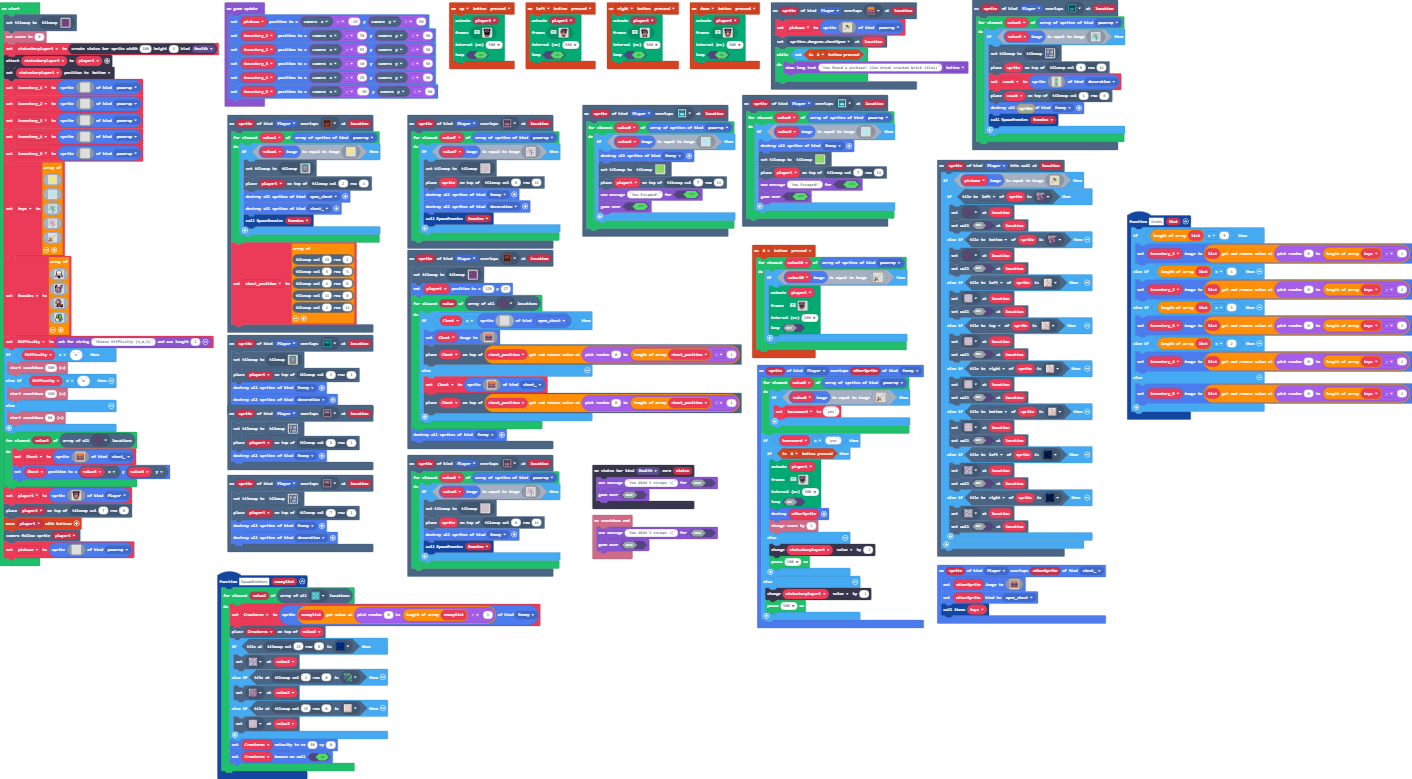
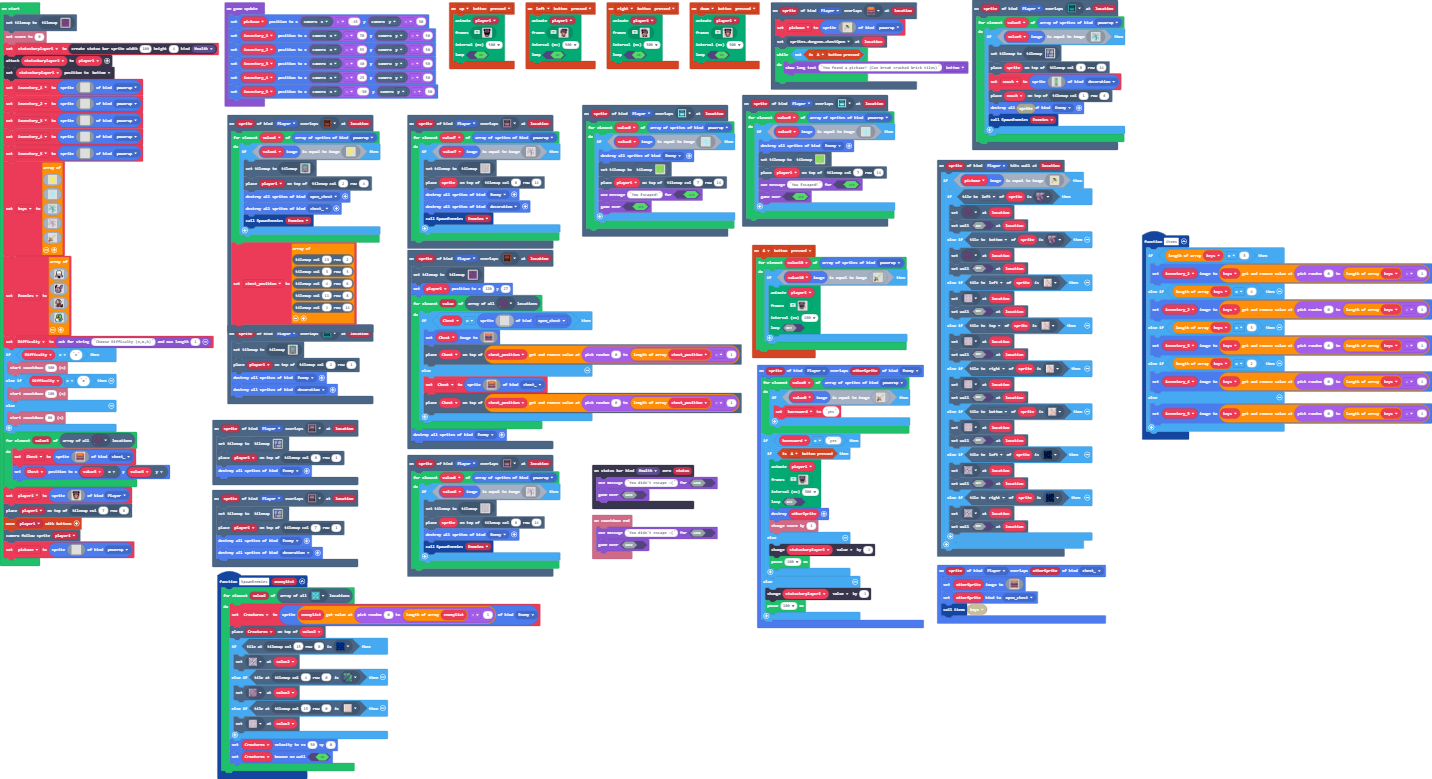
Update main.blocks, main.ts, tilemap.g.jres, tilemap.g.ts

diff --git a/tilemap.g.ts b/tilemap.g.ts
@@ -156,25 +156,6 @@ namespace myTiles {
 . . . . . . . . . . . . . . . . 
 . . . . . . . . . . . . . . . . 
 `, [myTiles.transparency16], TileScale.Sixteen);
-            case "level1":
[1 lines of base64/hex data omitted]
-2 2 2 2 2 2 2 . 2 2 2 2 2 2 2 2 
-2 . . . . . . . . . . 2 . . . 2 
-2 . . 2 2 . . . . . . . . . . 2 
-2 . . . 2 . . . . . . 2 . . . 2 
-2 2 2 2 2 2 2 . . 2 2 2 2 2 2 2 
-2 . . . . . . . . . . . . . . 2 
-2 . . . . . . . . . . . . . . 2 
-2 2 2 2 2 2 2 2 2 2 2 2 2 . . 2 
-2 . . . . 2 . . . 2 . . . . . 2 
-2 . . . . . . 2 . . . . . . . 2 
-2 2 . . 2 2 2 2 2 2 2 2 2 2 2 2 
-2 . . . . . . . . . . . . . . 2 
-2 . . . . . . . . . . . . . . 2 
-2 2 2 . . . . . . 2 2 2 . . . 2 
-2 . 2 . . . . . 2 2 2 2 2 . . 2 
-2 2 2 2 2 2 2 2 2 2 2 2 2 2 2 2 
-`, [myTiles.transparency16,sprites.dungeon.purpleOuterNorthEast,sprites.dungeon.purpleOuterNorthWest,sprites.dungeon.purpleOuterSouthEast,sprites.dungeon.purpleOuterSouthWest,sprites.dungeon.purpleOuterSouth1,sprites.dungeon.purpleOuterEast0,sprites.dungeon.purpleOuterWest1,sprites.dungeon.purpleOuterNorth1,sprites.dungeon.darkGroundNorthWest0,sprites.dungeon.darkGroundNorthEast0,sprites.dungeon.darkGroundSouthEast0,sprites.dungeon.darkGroundSouth,sprites.dungeon.darkGroundNorth,sprites.dungeon.darkGroundEast,sprites.dungeon.darkGroundWest,sprites.dungeon.darkGroundCenter,sprites.dungeon.purpleOuterNorth2,sprites.dungeon.purpleOuterWest2,sprites.dungeon.purpleOuterSouth2,sprites.dungeon.purpleOuterEast2,myTiles.tile1,sprites.dungeon.purpleInnerNorthEast,sprites.dungeon.purpleInnerNorthWest,sprites.dungeon.purpleOuterWest0,sprites.dungeon.floorDark3,sprites.dungeon.darkGroundNorthEast1,sprites.dungeon.chestClosed], TileScale.Sixteen);
             case "level11":
             case "level11":return tiles.createTilemap(hex`1000100000000000000000000000000000000000000000000000000000000000000000000000000000000000000000000000000000000000000000000000000000000000000000000000000000000000000000000000000000000000000000000000000000000000000000000000000000000000000000000000000000000000000000000000000000000000000000000000000000000000000000000000000000000000000000000000000000000000000000000000000000000000000000000000000000000000000000000000000000000000000000000000000000000000000000000000000000000000000000000000000000000000000000000000000000000000`, img`
 . . . . . . . . . . . . . . . . 
@@ -859,25 +840,6 @@ namespace myTiles {
 . . . . . . . . . . . . . . . . 
 . . . . . . . . . . . . . . . . 
 `, [myTiles.transparency16], TileScale.Sixteen);
-            case "level24":
-            case "level24":return tiles.createTilemap(hex`1000100004040404040404070604040404040404040108080104010101010501010108040401010101040404040404010101010404010101010101010101050101010104040101010104010101010401010101040404050404040101010104010101010404010108010404040404040404040404040801010104010101010108010101040404040405040101010101010101010404010101010101010101040108010104040101010101010101010404040504040401010404040101010104010801010404010101080404040404040101010804040101010104010101010501010101040401010101040101010104010101010404040404040404020304040404040404`, img`
-2 2 2 2 2 2 2 . . 2 2 2 2 2 2 2 
-2 . . . . 2 . . . . 2 . . . . 2 
-2 . . . . 2 2 2 2 2 2 . . . . 2 
-2 . . . . . . . . . 2 . . . . 2 
-2 . . . . 2 . . . . 2 . . . . 2 
-2 2 2 2 2 2 . . . . 2 . . . . 2 
-2 . . . . 2 2 2 2 2 2 2 2 2 2 2 
-2 . . . . 2 . . . . . . . . . 2 
-2 2 2 2 2 2 . . . . . . . . . 2 
-2 . . . . . . . . . 2 . . . . 2 
-2 . . . . . . . . . 2 2 2 2 2 2 
-2 . . 2 2 2 . . . . 2 . . . . 2 
-2 . . . . 2 2 2 2 2 2 . . . . 2 
-2 . . . . 2 . . . . 2 . . . . 2 
-2 . . . . 2 . . . . 2 . . . . 2 
-2 2 2 2 2 2 2 . . 2 2 2 2 2 2 2 
-`, [myTiles.transparency16,myTiles.tile3,myTiles.tile16,myTiles.tile17,sprites.dungeon.floorLight2,sprites.dungeon.floorLight5,myTiles.tile19,myTiles.tile20,sprites.dungeon.collectibleInsignia], TileScale.Sixteen);
             case "level76":
             case "level76":return tiles.createTilemap(hex`1000100000000000000000000000000000000000000000000000000000000000000000000000000000000000000000000000000000000000000000000000000000000000000000000000000000000000000000000000000000000000000000000000000000000000000000000000000000000000000000000000000000000000000000000000000000000000000000000000000000000000000000000000000000000000000000000000000000000000000000000000000000000000000000000000000000000000000000000000000000000000000000000000000000000000000000000000000000000000000000000000000000000000000000000000000000000000`, img`
 . . . . . . . . . . . . . . . . 
@@ -2189,25 +2151,6 @@ namespace myTiles {
 . . . . . . . . . . . . . . . . 
 . . . . . . . . . . . . . . . . 
 `, [myTiles.transparency16], TileScale.Sixteen);
-            case "level95":
[1 lines of base64/hex data omitted]
-. . . . . . . . . . . . . . . . 
-. . . . . . . . . . . . . . . . 
-. . . . . . . . . . . . . . . . 
-. . . . . . . . . . . . . . . . 
-. . . . . . . . . . . . . . . . 
-. . . . . . . . . . . . . . . . 
-. . . . . . . . . . . . . . . . 
-. . . . . . . . . . . . . . . . 
-. . . . . . . . . . . . . . . . 
-. . . . . . . . . . . . . . . . 
-. . . . . . . . . . . . . . . . 
-. . . . . . . . . . . . . . . . 
-. . . . . . . . . . . . . . . . 
-. . . . . . . . . . . . . . . . 
-. . . . . . . . . . . . . . . . 
-. . . . . . . . . . . . . . . . 
-`, [myTiles.transparency16,sprites.castle.tileGrass2,myTiles.tile19,myTiles.tile20,sprites.castle.tileGrass1,sprites.castle.tileGrass3,sprites.castle.tilePath7,sprites.castle.tilePath4,sprites.castle.tilePath1,sprites.castle.tilePath3,sprites.castle.tilePath9,sprites.castle.tilePath6,sprites.builtin.brick,sprites.dungeon.stairSouth,myTiles.tile22,myTiles.tile23], TileScale.Sixteen);
             case "level2":
             case "level2":return tiles.createTilemap(hex`1000100000000000000000000000000000000000000000000000000000000000000000000000000000000000000000000000000000000000000000000000000000000000000000000000000000000000000000000000000000000000000000000000000000000000000000000000000000000000000000000000000000000000000000000000000000000000000000000000000000000000000000000000000000000000000000000000000000000000000000000000000000000000000000000000000000000000000000000000000000000000000000000000000000000000000000000000000000000000000000000000000000000000000000000000000000000000`, img`
 . . . . . . . . . . . . . . . . 
@@ -2227,6 +2170,44 @@ namespace myTiles {
 . . . . . . . . . . . . . . . . 
 . . . . . . . . . . . . . . . . 
 `, [myTiles.transparency16], TileScale.Sixteen);
+            case "level1":
[1 lines of base64/hex data omitted]
+2 2 2 2 2 2 2 . 2 2 2 2 2 2 2 2 
+2 . . . . . . . . . . 2 . . . 2 
+2 . . 2 2 . . . . . . . . . . 2 
+2 . . . 2 . . . . . . 2 . . . 2 
+2 2 2 2 2 2 2 . . 2 2 2 2 2 2 2 
+2 . . . . . . . . . . . . . . 2 
+2 . . . . . . . . . . . . . . 2 
+2 2 2 2 2 2 2 2 2 2 2 2 2 . . 2 
+2 . . . . 2 . . . 2 . . . . . 2 
+2 . . . . . . 2 . . . . . . . 2 
+2 2 . . 2 2 2 2 2 2 2 2 2 2 2 2 
+2 . . . . . . . . . . . . . . 2 
+2 . . . . . . . . . . . . . . 2 
+2 2 2 . . . . . . 2 2 2 . . . 2 
+2 . 2 . . . . . 2 2 2 2 2 . . 2 
+2 2 2 2 2 2 2 2 2 2 2 2 2 2 2 2 
+`, [myTiles.transparency16,sprites.dungeon.purpleOuterNorthEast,sprites.dungeon.purpleOuterNorthWest,sprites.dungeon.purpleOuterSouthEast,sprites.dungeon.purpleOuterSouthWest,sprites.dungeon.purpleOuterSouth1,sprites.dungeon.purpleOuterEast0,sprites.dungeon.purpleOuterWest1,sprites.dungeon.purpleOuterNorth1,sprites.dungeon.darkGroundNorthWest0,sprites.dungeon.darkGroundNorthEast0,sprites.dungeon.darkGroundSouthEast0,sprites.dungeon.darkGroundSouth,sprites.dungeon.darkGroundNorth,sprites.dungeon.darkGroundEast,sprites.dungeon.darkGroundWest,sprites.dungeon.darkGroundCenter,sprites.dungeon.purpleOuterNorth2,sprites.dungeon.purpleOuterWest2,sprites.dungeon.purpleOuterSouth2,sprites.dungeon.purpleOuterEast2,myTiles.tile1,sprites.dungeon.purpleInnerNorthEast,sprites.dungeon.purpleInnerNorthWest,sprites.dungeon.purpleOuterWest0,sprites.dungeon.floorDark3,sprites.dungeon.darkGroundNorthEast1,sprites.dungeon.chestClosed], TileScale.Sixteen);
+            case "level95":
[1 lines of base64/hex data omitted]
+. . . . . . . . . . . . . . . . 
+. . . . . . . . . . . . . . . . 
+. . . . . . . . . . . . . . . . 
+. . . . . . . . . . . . . . . . 
+. . . . . . . . . . . . . . . . 
+. . . . . . . . . . . . . . . . 
+. . . . . . . . . . . . . . . . 
+. . . . . . . . . . . . . . . . 
+. . . . . . . . . . . . . . . . 
+. . . . . . . . . . . . . . . . 
+. . . . . . . . . . . . . . . . 
+. . . . . . . . . . . . . . . . 
+. . . . . . . . . . . . . . . . 
+. . . . . . . . . . . . . . . . 
+. . . . . . . . . . . . . . . . 
+. . . . . . . . . . . . . . . . 
+`, [myTiles.transparency16,sprites.castle.tileGrass2,myTiles.tile19,myTiles.tile20,sprites.castle.tileGrass1,sprites.castle.tileGrass3,sprites.castle.tilePath7,sprites.castle.tilePath4,sprites.castle.tilePath1,sprites.castle.tilePath3,sprites.castle.tilePath9,sprites.castle.tilePath6,sprites.builtin.brick,sprites.dungeon.stairSouth,myTiles.tile22,myTiles.tile23], TileScale.Sixteen);
             case "level5":
[1 lines of base64/hex data omitted]
 2 2 . 2 2 
@@ -2255,6 +2236,25 @@ namespace myTiles {
 2 . . . 2 . . . . . . . . . . 2 
 2 2 2 2 2 2 2 2 . 2 2 2 2 2 2 2 
 `, [myTiles.transparency16,myTiles.tile5,myTiles.tile6,myTiles.tile9,myTiles.tile10,sprites.dungeon.floorLight2,myTiles.tile12,myTiles.tile13,myTiles.tile14,myTiles.tile15,sprites.builtin.forestTiles0,myTiles.tile18,myTiles.tile11,sprites.dungeon.collectibleInsignia,myTiles.tile24,myTiles.tile25,myTiles.tile26,myTiles.tile27,myTiles.tile28], TileScale.Sixteen);
+            case "level24":
+            case "level24":return tiles.createTilemap(hex`1000100004040404040404070604040404040404040101080104010101010501010108040401010101040404040404040404010404080108010101010801040401010804040101010104080101010505010101040404050404040404040404040108010404010108010404040404040404040404040801010104010101010108010104040405040404040801010801010101040404010801040401010101040108010404040101010505010801010404040504040401010404040404040404010801010404080101080404040404040101010804040101010104010108010501080101040408010108040101010104010108010404040404040404020304040404040404`, img`
+2 2 2 2 2 2 2 . . 2 2 2 2 2 2 2 
+2 . . . . 2 . . . . 2 . . . . 2 
+2 . . . . 2 2 2 2 2 2 2 2 2 . 2 
+2 . . . . . . . . . 2 2 . . . 2 
+2 . . . . 2 . . . . 2 2 . . . 2 
+2 2 2 2 2 2 2 2 2 2 2 2 . . . 2 
+2 . . . . 2 2 2 2 2 2 2 2 2 2 2 
+2 . . . . 2 . . . . . . . . 2 2 
+2 2 2 2 2 2 . . . . . . . . 2 2 
+2 . . . 2 2 . . . . 2 . . . 2 2 
+2 . . . 2 2 . . . . 2 2 2 2 2 2 
+2 . . 2 2 2 2 2 2 2 2 . . . . 2 
+2 . . . . 2 2 2 2 2 2 . . . . 2 
+2 . . . . 2 . . . . 2 . . . . 2 
+2 . . . . 2 . . . . 2 . . . . 2 
+2 2 2 2 2 2 2 . . 2 2 2 2 2 2 2 
+`, [myTiles.transparency16,myTiles.tile3,myTiles.tile16,myTiles.tile17,sprites.dungeon.floorLight2,sprites.dungeon.floorLight5,myTiles.tile19,myTiles.tile20,sprites.dungeon.collectibleInsignia], TileScale.Sixteen);
         }
         return null;
     })

diff --git a/main.ts b/main.ts
@@ -352,7 +352,7 @@ sprites.onOverlap(SpriteKind.Player, SpriteKind.chest_, function (sprite, otherS
         . b b . . . . . . . . . . b b . 
         `)
     otherSprite.setKind(SpriteKind.open_chest)
-    items(keys)
+    items()
 })
 controller.left.onEvent(ControllerButtonEvent.Pressed, function () {
     animation.runImageAnimation(
@@ -445,17 +445,17 @@ info.onCountdownEnd(function () {
     game.setGameOverMessage(false, "You didn't escape :(")
     game.gameOver(false)
 })
-function items (list: Image[]) {
-    if (list.length == 5) {
-        inventory_1.setImage(list.removeAt(randint(0, keys.length - 1)))
-    } else if (list.length == 4) {
-        inventory_2.setImage(list.removeAt(randint(0, keys.length - 1)))
-    } else if (list.length == 3) {
-        inventory_3.setImage(list.removeAt(randint(0, keys.length - 1)))
-    } else if (list.length == 2) {
-        inventory_4.setImage(list.removeAt(randint(0, keys.length - 1)))
+function items () {
+    if (keys.length == 5) {
+        inventory_1.setImage(keys.removeAt(randint(0, keys.length - 1)))
+    } else if (keys.length == 4) {
+        inventory_2.setImage(keys.removeAt(randint(0, keys.length - 1)))
+    } else if (keys.length == 3) {
+        inventory_3.setImage(keys.removeAt(randint(0, keys.length - 1)))
+    } else if (keys.length == 2) {
+        inventory_4.setImage(keys.removeAt(randint(0, keys.length - 1)))
     } else {
-        inventory_5.setImage(list.removeAt(randint(0, keys.length - 1)))
+        inventory_5.setImage(keys.removeAt(randint(0, keys.length - 1)))
     }
 }
 scene.onOverlapTile(SpriteKind.Player, sprites.dungeon.chestClosed, function (sprite, location) {
